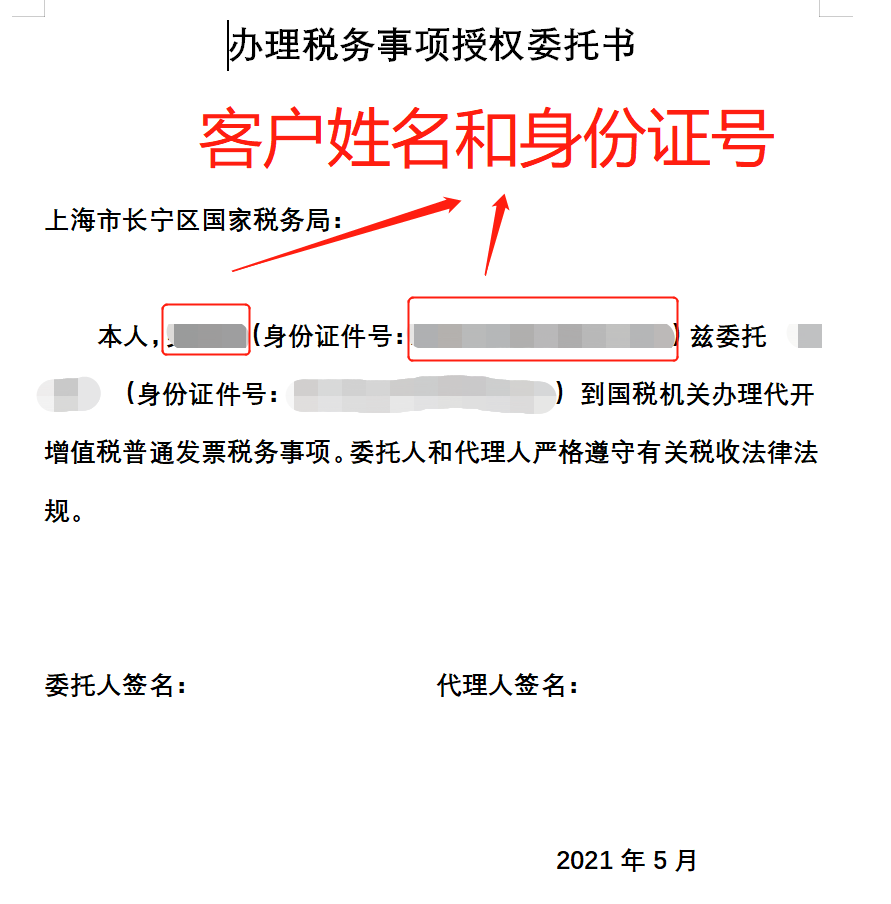
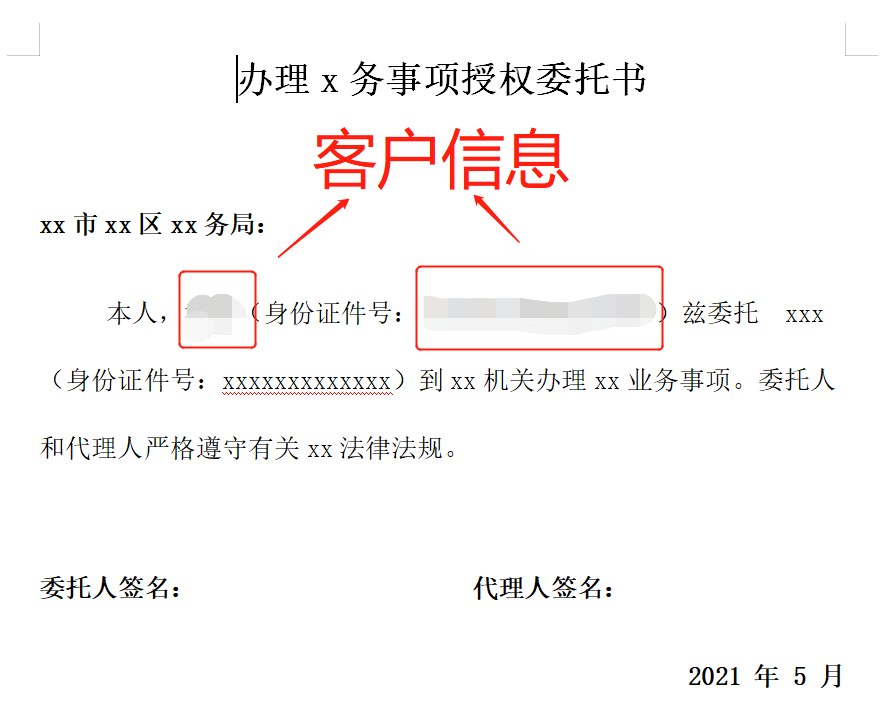
Site updated: 2021-05-28 22:00:53

diff --git a/2021/05/27/Python之word文档批量处理/index.html b/2021/05/27/Python之word文档批量处理/index.html
@@ -96,7 +96,7 @@
 <meta property="og:locale" content="zh-Hans">
 <meta property="og:image" content="http://yoursite.com/2021/05/27/Python之word文档批量处理/example.png">
 <meta property="og:image" content="http://yoursite.com/2021/05/27/Python之word文档批量处理/qrcode.jpg">
-<meta property="og:updated_time" content="2021-05-27T12:00:18.846Z">
+<meta property="og:updated_time" content="2021-05-28T14:00:33.820Z">
 <meta name="twitter:card" content="summary">
 <meta name="twitter:title" content="Python之word文档批量处理">
 <meta name="twitter:description" content="在文字工作中，经常会碰到与需要批量生成、编辑word文档的需求，这类机械性的工作非常适合编写小工具进行批量处理，使得原本人工处理需要几小时的工作量缩短为几分钟。 工具介绍Python下处理word文档最好用的库为 python-docx, 目前已收入pypi，直接使用pip安装即可。 新建文档可以新建一个空白文档 Document ，如下： 123from docx import Document">
@@ -457,10 +457,10 @@
 <figure class="highlight python"><table><tr><td class="gutter"><pre><span class="line">1</span><br><span class="line">2</span><br><span class="line">3</span><br><span class="line">4</span><br><span class="line">5</span><br><span class="line">6</span><br></pre></td><td class="code"><pre><span class="line">paragraph = document.add_paragraph()</span><br><span class="line">paragraph.add_run(<span class="string">'这是一个带有'</span>)</span><br><span class="line">paragraph.add_run(<span class="string">'粗体'</span>).bold = <span class="keyword">True</span></span><br><span class="line">paragraph.add_run(<span class="string">'和'</span>)</span><br><span class="line">paragraph.add_run(<span class="string">'斜体'</span>).italic = <span class="keyword">True</span></span><br><span class="line">paragraph.add_run(<span class="string">'的段落。'</span>)</span><br></pre></td></tr></table></figure>
 <h2 id="更多参考资料"><a href="#更多参考资料" class="headerlink" title="更多参考资料"></a>更多参考资料</h2><p>中文：<a href="https://zhuanlan.zhihu.com/p/61340025" target="_blank" rel="noopener">https://zhuanlan.zhihu.com/p/61340025</a></p>
 <p>官方文档 ：<a href="https://python-docx.readthedocs.io/en/latest/index.html" target="_blank" rel="noopener">https://python-docx.readthedocs.io/en/latest/index.html</a></p>
-<h1 id="案例介绍"><a href="#案例介绍" class="headerlink" title="案例介绍"></a>案例介绍</h1><p>假设我们需要生成如下的代开发票委托书，客户名字和身份证号来源于其他文件（可以是txt，excel），如果手动进行复制粘贴，费时费力，不如用上一节介绍的工具进行批量处理。</p>
+<h1 id="案例介绍"><a href="#案例介绍" class="headerlink" title="案例介绍"></a>案例介绍</h1><p>假设我们需要生成如下的代办xx业务的委托书，客户名字和身份证号来源于其他文件（可以是txt，excel），如果手动进行复制粘贴，费时费力，不如用上一节介绍的工具进行批量处理。</p>
 <img src="/2021/05/27/Python之word文档批量处理/example.png" title="文件示例">
 <p>下面示例代码用于生成上图中的模板文档，中文可以自行替换;  函数接收姓名、身份证号组成的列表作为 参数（另有代码进行处理，从其他 文件获得），如<code>[(&#39;小明&#39;, 330201xxxxxxxxxxxxx1410), ..., (&#39;小红&#39;, 330205xxxxxxxxxxxxx1701)]</code></p>
-<figure class="highlight python"><table><tr><td class="gutter"><pre><span class="line">1</span><br><span class="line">2</span><br><span class="line">3</span><br><span class="line">4</span><br><span class="line">5</span><br><span class="line">6</span><br><span class="line">7</span><br><span class="line">8</span><br><span class="line">9</span><br><span class="line">10</span><br><span class="line">11</span><br><span class="line">12</span><br><span class="line">13</span><br><span class="line">14</span><br><span class="line">15</span><br><span class="line">16</span><br><span class="line">17</span><br><span class="line">18</span><br><span class="line">19</span><br><span class="line">20</span><br><span class="line">21</span><br><span class="line">22</span><br><span class="line">23</span><br><span class="line">24</span><br><span class="line">25</span><br><span class="line">26</span><br><span class="line">27</span><br><span class="line">28</span><br><span class="line">29</span><br><span class="line">30</span><br><span class="line">31</span><br><span class="line">32</span><br><span class="line">33</span><br><span class="line">34</span><br><span class="line">35</span><br><span class="line">36</span><br><span class="line">37</span><br><span class="line">38</span><br><span class="line">39</span><br><span class="line">40</span><br><span class="line">41</span><br><span class="line">42</span><br><span class="line">43</span><br><span class="line">44</span><br><span class="line">45</span><br><span class="line">46</span><br><span class="line">47</span><br><span class="line">48</span><br><span class="line">49</span><br><span class="line">50</span><br><span class="line">51</span><br><span class="line">52</span><br><span class="line">53</span><br><span class="line">54</span><br><span class="line">55</span><br><span class="line">56</span><br><span class="line">57</span><br><span class="line">58</span><br><span class="line">59</span><br><span class="line">60</span><br></pre></td><td class="code"><pre><span class="line"><span class="function"><span class="keyword">def</span> <span class="title">generate_doc</span><span class="params">(namelist)</span>:</span></span><br><span class="line"></span><br><span class="line">    <span class="comment"># 授权正文</span></span><br><span class="line">    content = <span class="string">'兹委托  xxx （身份证件号：xxxxxxxxxxxxxxxxxxxxxxxxx ）'</span> \</span><br><span class="line">           <span class="string">'到国税机关办理代开增值税普通发票税务事项。委托人和代理人严格遵守有关税收法律法规。'</span></span><br><span class="line"></span><br><span class="line"></span><br><span class="line"></span><br><span class="line">    <span class="comment"># 以下为生成保密协议的代码，name_list中的每个人员都将生成对应一份保密协议文档</span></span><br><span class="line">    <span class="keyword">for</span> names <span class="keyword">in</span> name_list:</span><br><span class="line">        <span class="comment"># 创建内存中的word文档对象</span></span><br><span class="line">        file = docx.Document()</span><br><span class="line">        file.styles[<span class="string">'Normal'</span>].font.name = <span class="string">u'宋体'</span></span><br><span class="line">        file.styles[<span class="string">'Normal'</span>]._element.rPr.rFonts.set(qn(<span class="string">'w:eastAsia'</span>), <span class="string">u'宋体'</span>)  <span class="comment"># 可换成word里面任意字体</span></span><br><span class="line"></span><br><span class="line"></span><br><span class="line"></span><br><span class="line">        <span class="comment"># 写入若干段落</span></span><br><span class="line">        p1 = file.add_paragraph()</span><br><span class="line">        p1.paragraph_format.alignment = WD_ALIGN_PARAGRAPH.CENTER  <span class="comment"># 段落文字居中设置</span></span><br><span class="line">        run = p1.add_run(<span class="string">"办理税务事项授权委托书"</span>)</span><br><span class="line">        run.font.size = docx.shared.Pt(<span class="number">20</span>)</span><br><span class="line">        run.bold = <span class="keyword">True</span></span><br><span class="line"></span><br><span class="line">        <span class="comment"># 抬头</span></span><br><span class="line">        head = file.add_paragraph()</span><br><span class="line">        head.paragraph_format.alignment = WD_ALIGN_PARAGRAPH.LEFT</span><br><span class="line">        run = head.add_run(<span class="string">"\n\n上海市长宁区国家税务局：\n"</span>)</span><br><span class="line">        run.font.size = docx.shared.Pt(<span class="number">14</span>)   <span class="comment"># 四号字体</span></span><br><span class="line">        run.bold = <span class="keyword">True</span></span><br><span class="line"></span><br><span class="line">        <span class="comment"># 个人信息</span></span><br><span class="line">        p2 = file.add_paragraph()</span><br><span class="line">        <span class="comment"># p2.line_spacing_rule = WD_LINE_SPACING.ONE_POINT_FIVE</span></span><br><span class="line">        p2.paragraph_format.line_spacing_rule = WD_LINE_SPACING.DOUBLE</span><br><span class="line">        p2.paragraph_format.first_line_indent = Inches(<span class="number">0.5</span>)</span><br><span class="line">        p2.add_run(<span class="string">'本人，'</span>).font.size = docx.shared.Pt(<span class="number">14</span>)</span><br><span class="line">        run = p2.add_run(<span class="string">'%s'</span> % names[<span class="number">0</span>])</span><br><span class="line">        run.font.size = docx.shared.Pt(<span class="number">14</span>)</span><br><span class="line"></span><br><span class="line">        p2.add_run(<span class="string">'（身份证件号：'</span>).font.size = docx.shared.Pt(<span class="number">14</span>)</span><br><span class="line">        run = p2.add_run(<span class="string">'%s）'</span> % names[<span class="number">1</span>])</span><br><span class="line">        run.font.size = docx.shared.Pt(<span class="number">14</span>)</span><br><span class="line"></span><br><span class="line">        p2.add_run(content + <span class="string">'\n'</span>).font.size = docx.shared.Pt(<span class="number">14</span>)</span><br><span class="line"></span><br><span class="line">        p3 = file.add_paragraph()</span><br><span class="line">        run = p3.add_run(<span class="string">'委托人签名：                     代理人签名：\n'</span>)</span><br><span class="line">        run.font.size = docx.shared.Pt(<span class="number">14</span>)</span><br><span class="line">        run.bold = <span class="keyword">True</span></span><br><span class="line"></span><br><span class="line">        p5 = file.add_paragraph()</span><br><span class="line">        p5.paragraph_format.alignment = WD_ALIGN_PARAGRAPH.RIGHT</span><br><span class="line"></span><br><span class="line">        run = p5.add_run(<span class="string">"2021 年 5 月"</span>)</span><br><span class="line">        run.font.size = docx.shared.Pt(<span class="number">14</span>)</span><br><span class="line">        run.bold = <span class="keyword">True</span></span><br><span class="line"></span><br><span class="line">        <span class="comment"># 保存</span></span><br><span class="line">        file.save(<span class="string">"办理税务事项授权委托书-%s.docx"</span> % names[<span class="number">0</span>])</span><br></pre></td></tr></table></figure>
+<figure class="highlight python"><table><tr><td class="gutter"><pre><span class="line">1</span><br><span class="line">2</span><br><span class="line">3</span><br><span class="line">4</span><br><span class="line">5</span><br><span class="line">6</span><br><span class="line">7</span><br><span class="line">8</span><br><span class="line">9</span><br><span class="line">10</span><br><span class="line">11</span><br><span class="line">12</span><br><span class="line">13</span><br><span class="line">14</span><br><span class="line">15</span><br><span class="line">16</span><br><span class="line">17</span><br><span class="line">18</span><br><span class="line">19</span><br><span class="line">20</span><br><span class="line">21</span><br><span class="line">22</span><br><span class="line">23</span><br><span class="line">24</span><br><span class="line">25</span><br><span class="line">26</span><br><span class="line">27</span><br><span class="line">28</span><br><span class="line">29</span><br><span class="line">30</span><br><span class="line">31</span><br><span class="line">32</span><br><span class="line">33</span><br><span class="line">34</span><br><span class="line">35</span><br><span class="line">36</span><br><span class="line">37</span><br><span class="line">38</span><br><span class="line">39</span><br><span class="line">40</span><br><span class="line">41</span><br><span class="line">42</span><br><span class="line">43</span><br><span class="line">44</span><br><span class="line">45</span><br><span class="line">46</span><br><span class="line">47</span><br><span class="line">48</span><br><span class="line">49</span><br><span class="line">50</span><br><span class="line">51</span><br><span class="line">52</span><br><span class="line">53</span><br><span class="line">54</span><br><span class="line">55</span><br><span class="line">56</span><br><span class="line">57</span><br><span class="line">58</span><br><span class="line">59</span><br><span class="line">60</span><br></pre></td><td class="code"><pre><span class="line"><span class="function"><span class="keyword">def</span> <span class="title">generate_doc</span><span class="params">(namelist)</span>:</span></span><br><span class="line"></span><br><span class="line">    <span class="comment"># 授权正文</span></span><br><span class="line">    content = <span class="string">'兹委托  xxx （身份证件号：xxxxxxxxxxxxx）'</span> \</span><br><span class="line">           <span class="string">'到xx机关办理xx业务事项。委托人和代理人严格遵守有关xx法律法规。'</span></span><br><span class="line"></span><br><span class="line"></span><br><span class="line"></span><br><span class="line">    <span class="comment"># 以下为生成文档的代码，name_list中的每个人员都将生成对应一份文档</span></span><br><span class="line">    <span class="keyword">for</span> names <span class="keyword">in</span> name_list:</span><br><span class="line">        <span class="comment"># 创建内存中的word文档对象</span></span><br><span class="line">        file = docx.Document()</span><br><span class="line">        file.styles[<span class="string">'Normal'</span>].font.name = <span class="string">u'宋体'</span></span><br><span class="line">        file.styles[<span class="string">'Normal'</span>]._element.rPr.rFonts.set(qn(<span class="string">'w:eastAsia'</span>), <span class="string">u'宋体'</span>)  <span class="comment"># 可换成word里面任意字体</span></span><br><span class="line"></span><br><span class="line"></span><br><span class="line"></span><br><span class="line">        <span class="comment"># 写入若干段落</span></span><br><span class="line">        p1 = file.add_paragraph()</span><br><span class="line">        p1.paragraph_format.alignment = WD_ALIGN_PARAGRAPH.CENTER  <span class="comment"># 段落文字居中设置</span></span><br><span class="line">        run = p1.add_run(<span class="string">"办理x务事项授权委托书"</span>)</span><br><span class="line">        run.font.size = docx.shared.Pt(<span class="number">20</span>)</span><br><span class="line">        run.bold = <span class="keyword">True</span></span><br><span class="line"></span><br><span class="line">        <span class="comment"># 抬头</span></span><br><span class="line">        head = file.add_paragraph()</span><br><span class="line">        head.paragraph_format.alignment = WD_ALIGN_PARAGRAPH.LEFT</span><br><span class="line">        run = head.add_run(<span class="string">"\n\nxx市xx区xx务局：\n"</span>)</span><br><span class="line">        run.font.size = docx.shared.Pt(<span class="number">14</span>)   <span class="comment"># 四号字体</span></span><br><span class="line">        run.bold = <span class="keyword">True</span></span><br><span class="line"></span><br><span class="line">        <span class="comment"># 个人信息</span></span><br><span class="line">        p2 = file.add_paragraph()</span><br><span class="line">        <span class="comment"># p2.line_spacing_rule = WD_LINE_SPACING.ONE_POINT_FIVE</span></span><br><span class="line">        p2.paragraph_format.line_spacing_rule = WD_LINE_SPACING.DOUBLE</span><br><span class="line">        p2.paragraph_format.first_line_indent = Inches(<span class="number">0.5</span>)</span><br><span class="line">        p2.add_run(<span class="string">'本人，'</span>).font.size = docx.shared.Pt(<span class="number">14</span>)</span><br><span class="line">        run = p2.add_run(<span class="string">'%s'</span> % names[<span class="number">0</span>])</span><br><span class="line">        run.font.size = docx.shared.Pt(<span class="number">14</span>)</span><br><span class="line"></span><br><span class="line">        p2.add_run(<span class="string">'（身份证件号：'</span>).font.size = docx.shared.Pt(<span class="number">14</span>)</span><br><span class="line">        run = p2.add_run(<span class="string">'%s）'</span> % names[<span class="number">1</span>])</span><br><span class="line">        run.font.size = docx.shared.Pt(<span class="number">14</span>)</span><br><span class="line"></span><br><span class="line">        p2.add_run(content + <span class="string">'\n'</span>).font.size = docx.shared.Pt(<span class="number">14</span>)</span><br><span class="line"></span><br><span class="line">        p3 = file.add_paragraph()</span><br><span class="line">        run = p3.add_run(<span class="string">'委托人签名：                     代理人签名：\n'</span>)</span><br><span class="line">        run.font.size = docx.shared.Pt(<span class="number">14</span>)</span><br><span class="line">        run.bold = <span class="keyword">True</span></span><br><span class="line"></span><br><span class="line">        p5 = file.add_paragraph()</span><br><span class="line">        p5.paragraph_format.alignment = WD_ALIGN_PARAGRAPH.RIGHT</span><br><span class="line"></span><br><span class="line">        run = p5.add_run(<span class="string">"2021 年 5 月"</span>)</span><br><span class="line">        run.font.size = docx.shared.Pt(<span class="number">14</span>)</span><br><span class="line">        run.bold = <span class="keyword">True</span></span><br><span class="line"></span><br><span class="line">        <span class="comment"># 保存</span></span><br><span class="line">        file.save(<span class="string">"./result/办理x务事项授权委托书-%s.docx"</span> % names[<span class="number">0</span>])</span><br></pre></td></tr></table></figure>
 <p>如需完整代码，可以关注公众号”CodingSirTutor”, 回复“word批量处理”获取；如需定制文件模板或有特殊需求，可添加wx助手：caxiaozhushou咨询。</p>
 <img src="/2021/05/27/Python之word文档批量处理/qrcode.jpg" title="欢迎关注CodingSirTutor">
 

diff --git a/index.html b/index.html
@@ -452,10 +452,10 @@
 <figure class="highlight python"><table><tr><td class="gutter"><pre><span class="line">1</span><br><span class="line">2</span><br><span class="line">3</span><br><span class="line">4</span><br><span class="line">5</span><br><span class="line">6</span><br></pre></td><td class="code"><pre><span class="line">paragraph = document.add_paragraph()</span><br><span class="line">paragraph.add_run(<span class="string">'这是一个带有'</span>)</span><br><span class="line">paragraph.add_run(<span class="string">'粗体'</span>).bold = <span class="keyword">True</span></span><br><span class="line">paragraph.add_run(<span class="string">'和'</span>)</span><br><span class="line">paragraph.add_run(<span class="string">'斜体'</span>).italic = <span class="keyword">True</span></span><br><span class="line">paragraph.add_run(<span class="string">'的段落。'</span>)</span><br></pre></td></tr></table></figure>
 <h2 id="更多参考资料"><a href="#更多参考资料" class="headerlink" title="更多参考资料"></a>更多参考资料</h2><p>中文：<a href="https://zhuanlan.zhihu.com/p/61340025" target="_blank" rel="noopener">https://zhuanlan.zhihu.com/p/61340025</a></p>
 <p>官方文档 ：<a href="https://python-docx.readthedocs.io/en/latest/index.html" target="_blank" rel="noopener">https://python-docx.readthedocs.io/en/latest/index.html</a></p>
-<h1 id="案例介绍"><a href="#案例介绍" class="headerlink" title="案例介绍"></a>案例介绍</h1><p>假设我们需要生成如下的代开发票委托书，客户名字和身份证号来源于其他文件（可以是txt，excel），如果手动进行复制粘贴，费时费力，不如用上一节介绍的工具进行批量处理。</p>
+<h1 id="案例介绍"><a href="#案例介绍" class="headerlink" title="案例介绍"></a>案例介绍</h1><p>假设我们需要生成如下的代办xx业务的委托书，客户名字和身份证号来源于其他文件（可以是txt，excel），如果手动进行复制粘贴，费时费力，不如用上一节介绍的工具进行批量处理。</p>
 <img src="/2021/05/27/Python之word文档批量处理/example.png" title="文件示例">
 <p>下面示例代码用于生成上图中的模板文档，中文可以自行替换;  函数接收姓名、身份证号组成的列表作为 参数（另有代码进行处理，从其他 文件获得），如<code>[(&#39;小明&#39;, 330201xxxxxxxxxxxxx1410), ..., (&#39;小红&#39;, 330205xxxxxxxxxxxxx1701)]</code></p>
-<figure class="highlight python"><table><tr><td class="gutter"><pre><span class="line">1</span><br><span class="line">2</span><br><span class="line">3</span><br><span class="line">4</span><br><span class="line">5</span><br><span class="line">6</span><br><span class="line">7</span><br><span class="line">8</span><br><span class="line">9</span><br><span class="line">10</span><br><span class="line">11</span><br><span class="line">12</span><br><span class="line">13</span><br><span class="line">14</span><br><span class="line">15</span><br><span class="line">16</span><br><span class="line">17</span><br><span class="line">18</span><br><span class="line">19</span><br><span class="line">20</span><br><span class="line">21</span><br><span class="line">22</span><br><span class="line">23</span><br><span class="line">24</span><br><span class="line">25</span><br><span class="line">26</span><br><span class="line">27</span><br><span class="line">28</span><br><span class="line">29</span><br><span class="line">30</span><br><span class="line">31</span><br><span class="line">32</span><br><span class="line">33</span><br><span class="line">34</span><br><span class="line">35</span><br><span class="line">36</span><br><span class="line">37</span><br><span class="line">38</span><br><span class="line">39</span><br><span class="line">40</span><br><span class="line">41</span><br><span class="line">42</span><br><span class="line">43</span><br><span class="line">44</span><br><span class="line">45</span><br><span class="line">46</span><br><span class="line">47</span><br><span class="line">48</span><br><span class="line">49</span><br><span class="line">50</span><br><span class="line">51</span><br><span class="line">52</span><br><span class="line">53</span><br><span class="line">54</span><br><span class="line">55</span><br><span class="line">56</span><br><span class="line">57</span><br><span class="line">58</span><br><span class="line">59</span><br><span class="line">60</span><br></pre></td><td class="code"><pre><span class="line"><span class="function"><span class="keyword">def</span> <span class="title">generate_doc</span><span class="params">(namelist)</span>:</span></span><br><span class="line"></span><br><span class="line">    <span class="comment"># 授权正文</span></span><br><span class="line">    content = <span class="string">'兹委托  xxx （身份证件号：xxxxxxxxxxxxxxxxxxxxxxxxx ）'</span> \</span><br><span class="line">           <span class="string">'到国税机关办理代开增值税普通发票税务事项。委托人和代理人严格遵守有关税收法律法规。'</span></span><br><span class="line"></span><br><span class="line"></span><br><span class="line"></span><br><span class="line">    <span class="comment"># 以下为生成保密协议的代码，name_list中的每个人员都将生成对应一份保密协议文档</span></span><br><span class="line">    <span class="keyword">for</span> names <span class="keyword">in</span> name_list:</span><br><span class="line">        <span class="comment"># 创建内存中的word文档对象</span></span><br><span class="line">        file = docx.Document()</span><br><span class="line">        file.styles[<span class="string">'Normal'</span>].font.name = <span class="string">u'宋体'</span></span><br><span class="line">        file.styles[<span class="string">'Normal'</span>]._element.rPr.rFonts.set(qn(<span class="string">'w:eastAsia'</span>), <span class="string">u'宋体'</span>)  <span class="comment"># 可换成word里面任意字体</span></span><br><span class="line"></span><br><span class="line"></span><br><span class="line"></span><br><span class="line">        <span class="comment"># 写入若干段落</span></span><br><span class="line">        p1 = file.add_paragraph()</span><br><span class="line">        p1.paragraph_format.alignment = WD_ALIGN_PARAGRAPH.CENTER  <span class="comment"># 段落文字居中设置</span></span><br><span class="line">        run = p1.add_run(<span class="string">"办理税务事项授权委托书"</span>)</span><br><span class="line">        run.font.size = docx.shared.Pt(<span class="number">20</span>)</span><br><span class="line">        run.bold = <span class="keyword">True</span></span><br><span class="line"></span><br><span class="line">        <span class="comment"># 抬头</span></span><br><span class="line">        head = file.add_paragraph()</span><br><span class="line">        head.paragraph_format.alignment = WD_ALIGN_PARAGRAPH.LEFT</span><br><span class="line">        run = head.add_run(<span class="string">"\n\n上海市长宁区国家税务局：\n"</span>)</span><br><span class="line">        run.font.size = docx.shared.Pt(<span class="number">14</span>)   <span class="comment"># 四号字体</span></span><br><span class="line">        run.bold = <span class="keyword">True</span></span><br><span class="line"></span><br><span class="line">        <span class="comment"># 个人信息</span></span><br><span class="line">        p2 = file.add_paragraph()</span><br><span class="line">        <span class="comment"># p2.line_spacing_rule = WD_LINE_SPACING.ONE_POINT_FIVE</span></span><br><span class="line">        p2.paragraph_format.line_spacing_rule = WD_LINE_SPACING.DOUBLE</span><br><span class="line">        p2.paragraph_format.first_line_indent = Inches(<span class="number">0.5</span>)</span><br><span class="line">        p2.add_run(<span class="string">'本人，'</span>).font.size = docx.shared.Pt(<span class="number">14</span>)</span><br><span class="line">        run = p2.add_run(<span class="string">'%s'</span> % names[<span class="number">0</span>])</span><br><span class="line">        run.font.size = docx.shared.Pt(<span class="number">14</span>)</span><br><span class="line"></span><br><span class="line">        p2.add_run(<span class="string">'（身份证件号：'</span>).font.size = docx.shared.Pt(<span class="number">14</span>)</span><br><span class="line">        run = p2.add_run(<span class="string">'%s）'</span> % names[<span class="number">1</span>])</span><br><span class="line">        run.font.size = docx.shared.Pt(<span class="number">14</span>)</span><br><span class="line"></span><br><span class="line">        p2.add_run(content + <span class="string">'\n'</span>).font.size = docx.shared.Pt(<span class="number">14</span>)</span><br><span class="line"></span><br><span class="line">        p3 = file.add_paragraph()</span><br><span class="line">        run = p3.add_run(<span class="string">'委托人签名：                     代理人签名：\n'</span>)</span><br><span class="line">        run.font.size = docx.shared.Pt(<span class="number">14</span>)</span><br><span class="line">        run.bold = <span class="keyword">True</span></span><br><span class="line"></span><br><span class="line">        p5 = file.add_paragraph()</span><br><span class="line">        p5.paragraph_format.alignment = WD_ALIGN_PARAGRAPH.RIGHT</span><br><span class="line"></span><br><span class="line">        run = p5.add_run(<span class="string">"2021 年 5 月"</span>)</span><br><span class="line">        run.font.size = docx.shared.Pt(<span class="number">14</span>)</span><br><span class="line">        run.bold = <span class="keyword">True</span></span><br><span class="line"></span><br><span class="line">        <span class="comment"># 保存</span></span><br><span class="line">        file.save(<span class="string">"办理税务事项授权委托书-%s.docx"</span> % names[<span class="number">0</span>])</span><br></pre></td></tr></table></figure>
+<figure class="highlight python"><table><tr><td class="gutter"><pre><span class="line">1</span><br><span class="line">2</span><br><span class="line">3</span><br><span class="line">4</span><br><span class="line">5</span><br><span class="line">6</span><br><span class="line">7</span><br><span class="line">8</span><br><span class="line">9</span><br><span class="line">10</span><br><span class="line">11</span><br><span class="line">12</span><br><span class="line">13</span><br><span class="line">14</span><br><span class="line">15</span><br><span class="line">16</span><br><span class="line">17</span><br><span class="line">18</span><br><span class="line">19</span><br><span class="line">20</span><br><span class="line">21</span><br><span class="line">22</span><br><span class="line">23</span><br><span class="line">24</span><br><span class="line">25</span><br><span class="line">26</span><br><span class="line">27</span><br><span class="line">28</span><br><span class="line">29</span><br><span class="line">30</span><br><span class="line">31</span><br><span class="line">32</span><br><span class="line">33</span><br><span class="line">34</span><br><span class="line">35</span><br><span class="line">36</span><br><span class="line">37</span><br><span class="line">38</span><br><span class="line">39</span><br><span class="line">40</span><br><span class="line">41</span><br><span class="line">42</span><br><span class="line">43</span><br><span class="line">44</span><br><span class="line">45</span><br><span class="line">46</span><br><span class="line">47</span><br><span class="line">48</span><br><span class="line">49</span><br><span class="line">50</span><br><span class="line">51</span><br><span class="line">52</span><br><span class="line">53</span><br><span class="line">54</span><br><span class="line">55</span><br><span class="line">56</span><br><span class="line">57</span><br><span class="line">58</span><br><span class="line">59</span><br><span class="line">60</span><br></pre></td><td class="code"><pre><span class="line"><span class="function"><span class="keyword">def</span> <span class="title">generate_doc</span><span class="params">(namelist)</span>:</span></span><br><span class="line"></span><br><span class="line">    <span class="comment"># 授权正文</span></span><br><span class="line">    content = <span class="string">'兹委托  xxx （身份证件号：xxxxxxxxxxxxx）'</span> \</span><br><span class="line">           <span class="string">'到xx机关办理xx业务事项。委托人和代理人严格遵守有关xx法律法规。'</span></span><br><span class="line"></span><br><span class="line"></span><br><span class="line"></span><br><span class="line">    <span class="comment"># 以下为生成文档的代码，name_list中的每个人员都将生成对应一份文档</span></span><br><span class="line">    <span class="keyword">for</span> names <span class="keyword">in</span> name_list:</span><br><span class="line">        <span class="comment"># 创建内存中的word文档对象</span></span><br><span class="line">        file = docx.Document()</span><br><span class="line">        file.styles[<span class="string">'Normal'</span>].font.name = <span class="string">u'宋体'</span></span><br><span class="line">        file.styles[<span class="string">'Normal'</span>]._element.rPr.rFonts.set(qn(<span class="string">'w:eastAsia'</span>), <span class="string">u'宋体'</span>)  <span class="comment"># 可换成word里面任意字体</span></span><br><span class="line"></span><br><span class="line"></span><br><span class="line"></span><br><span class="line">        <span class="comment"># 写入若干段落</span></span><br><span class="line">        p1 = file.add_paragraph()</span><br><span class="line">        p1.paragraph_format.alignment = WD_ALIGN_PARAGRAPH.CENTER  <span class="comment"># 段落文字居中设置</span></span><br><span class="line">        run = p1.add_run(<span class="string">"办理x务事项授权委托书"</span>)</span><br><span class="line">        run.font.size = docx.shared.Pt(<span class="number">20</span>)</span><br><span class="line">        run.bold = <span class="keyword">True</span></span><br><span class="line"></span><br><span class="line">        <span class="comment"># 抬头</span></span><br><span class="line">        head = file.add_paragraph()</span><br><span class="line">        head.paragraph_format.alignment = WD_ALIGN_PARAGRAPH.LEFT</span><br><span class="line">        run = head.add_run(<span class="string">"\n\nxx市xx区xx务局：\n"</span>)</span><br><span class="line">        run.font.size = docx.shared.Pt(<span class="number">14</span>)   <span class="comment"># 四号字体</span></span><br><span class="line">        run.bold = <span class="keyword">True</span></span><br><span class="line"></span><br><span class="line">        <span class="comment"># 个人信息</span></span><br><span class="line">        p2 = file.add_paragraph()</span><br><span class="line">        <span class="comment"># p2.line_spacing_rule = WD_LINE_SPACING.ONE_POINT_FIVE</span></span><br><span class="line">        p2.paragraph_format.line_spacing_rule = WD_LINE_SPACING.DOUBLE</span><br><span class="line">        p2.paragraph_format.first_line_indent = Inches(<span class="number">0.5</span>)</span><br><span class="line">        p2.add_run(<span class="string">'本人，'</span>).font.size = docx.shared.Pt(<span class="number">14</span>)</span><br><span class="line">        run = p2.add_run(<span class="string">'%s'</span> % names[<span class="number">0</span>])</span><br><span class="line">        run.font.size = docx.shared.Pt(<span class="number">14</span>)</span><br><span class="line"></span><br><span class="line">        p2.add_run(<span class="string">'（身份证件号：'</span>).font.size = docx.shared.Pt(<span class="number">14</span>)</span><br><span class="line">        run = p2.add_run(<span class="string">'%s）'</span> % names[<span class="number">1</span>])</span><br><span class="line">        run.font.size = docx.shared.Pt(<span class="number">14</span>)</span><br><span class="line"></span><br><span class="line">        p2.add_run(content + <span class="string">'\n'</span>).font.size = docx.shared.Pt(<span class="number">14</span>)</span><br><span class="line"></span><br><span class="line">        p3 = file.add_paragraph()</span><br><span class="line">        run = p3.add_run(<span class="string">'委托人签名：                     代理人签名：\n'</span>)</span><br><span class="line">        run.font.size = docx.shared.Pt(<span class="number">14</span>)</span><br><span class="line">        run.bold = <span class="keyword">True</span></span><br><span class="line"></span><br><span class="line">        p5 = file.add_paragraph()</span><br><span class="line">        p5.paragraph_format.alignment = WD_ALIGN_PARAGRAPH.RIGHT</span><br><span class="line"></span><br><span class="line">        run = p5.add_run(<span class="string">"2021 年 5 月"</span>)</span><br><span class="line">        run.font.size = docx.shared.Pt(<span class="number">14</span>)</span><br><span class="line">        run.bold = <span class="keyword">True</span></span><br><span class="line"></span><br><span class="line">        <span class="comment"># 保存</span></span><br><span class="line">        file.save(<span class="string">"./result/办理x务事项授权委托书-%s.docx"</span> % names[<span class="number">0</span>])</span><br></pre></td></tr></table></figure>
 <p>如需完整代码，可以关注公众号”CodingSirTutor”, 回复“word批量处理”获取；如需定制文件模板或有特殊需求，可添加wx助手：caxiaozhushou咨询。</p>
 <img src="/2021/05/27/Python之word文档批量处理/qrcode.jpg" title="欢迎关注CodingSirTutor">
 
